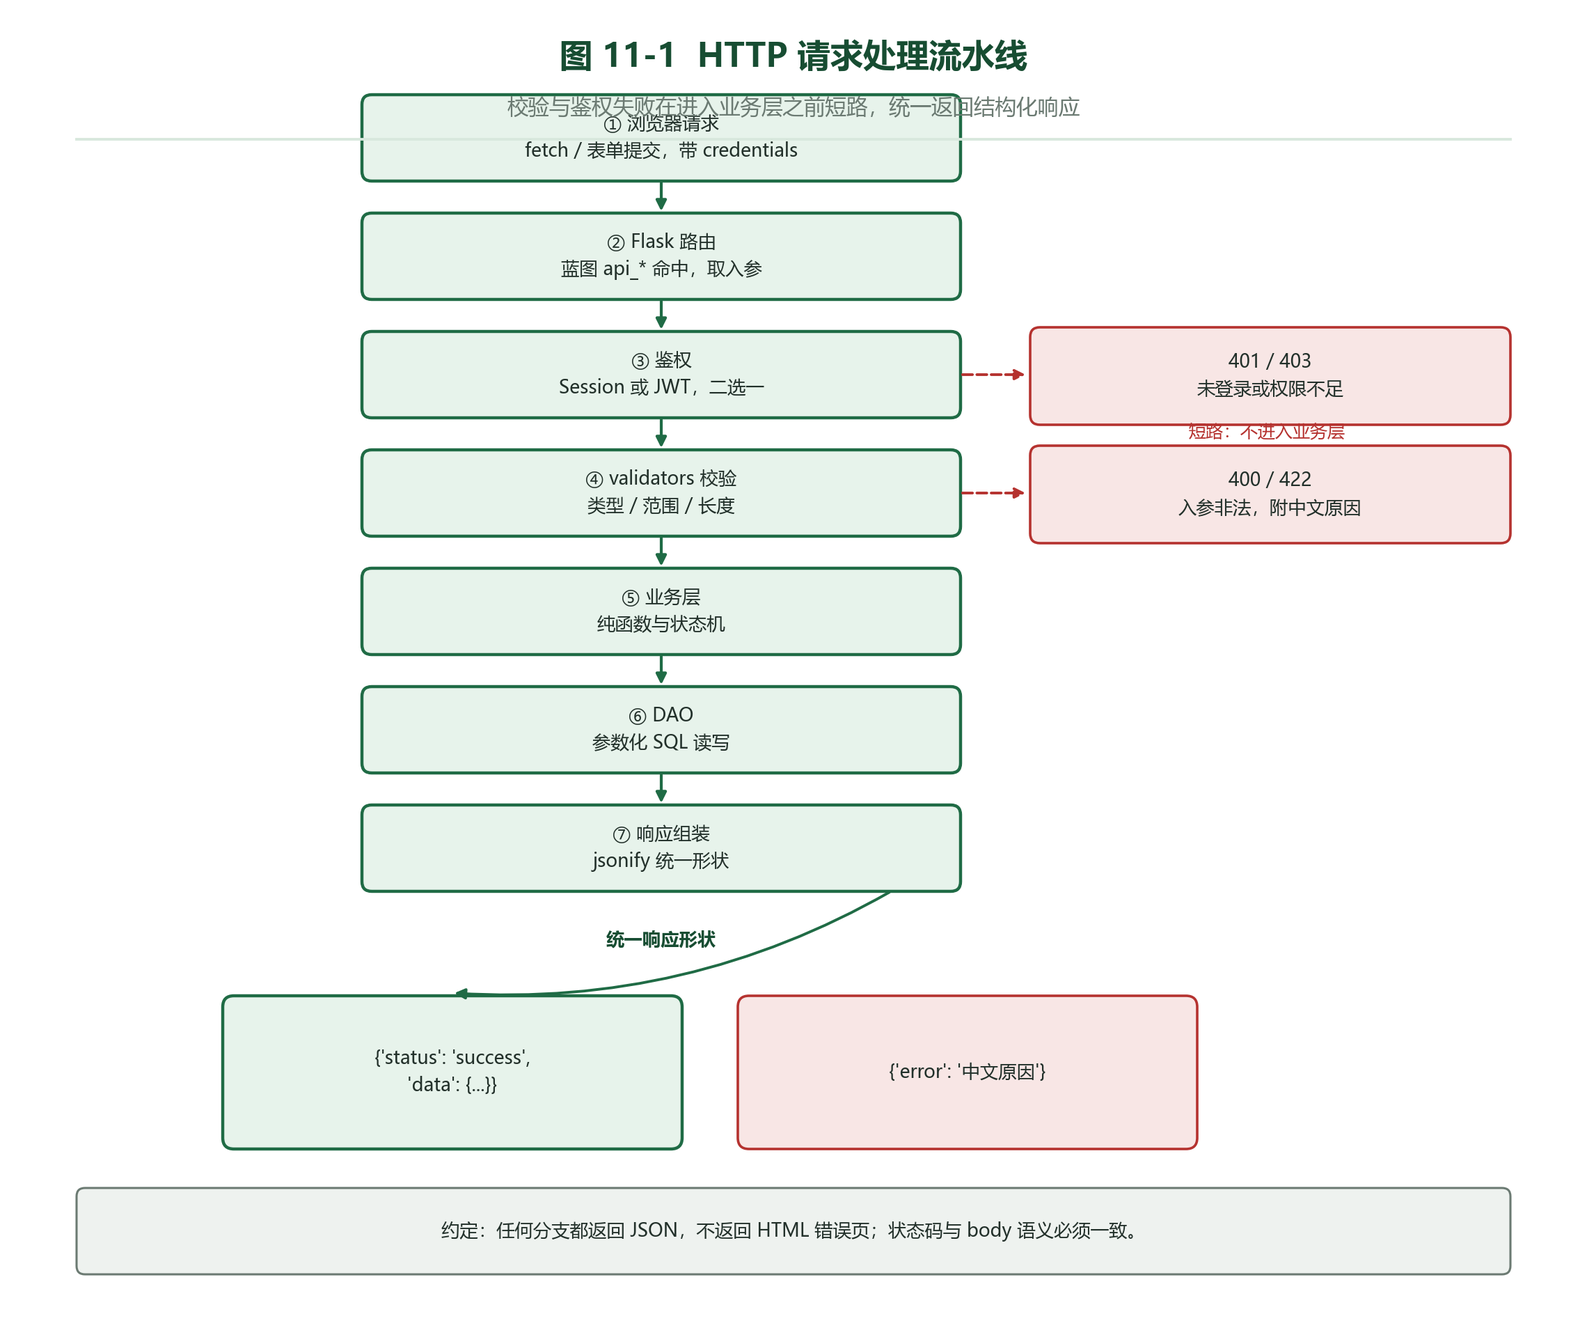
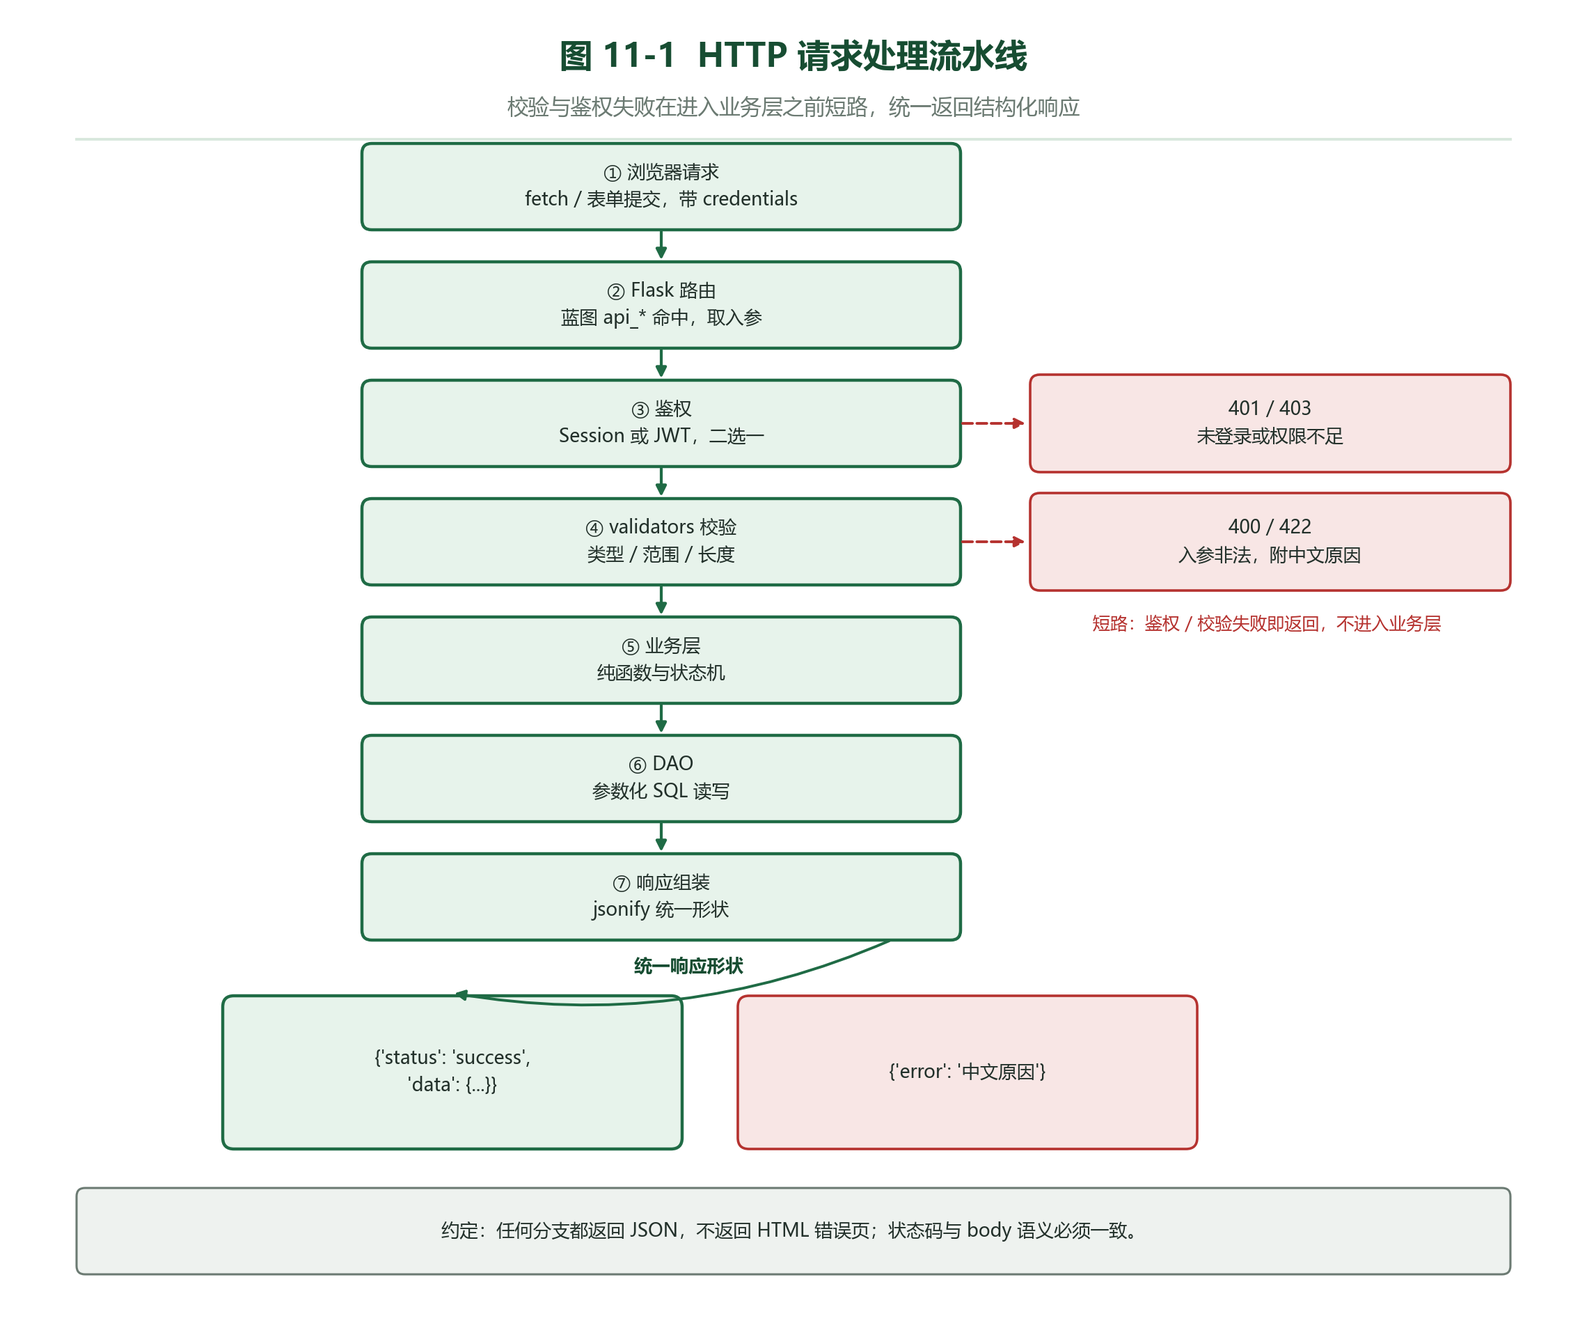
docs(docs): 重出 13 张示意图并修正文字重叠与越界

Changed region(s): [[0.218, 0.0625, 0.9654, 0.75], [0.5917, 0.6562, 0.6228, 0.6875]]

diff --git a/docs/_gen/make_figs.py b/docs/_gen/make_figs.py
@@ -456,7 +456,9 @@ def g_edgecloud():
         "断网自治：云端不可达 → 边端按 NVS 缓存的 L1 阈值继续执行，L2 红线强控始终在本地生效；"
         "联网后补传数据，并以云端最新策略覆盖本地缓存",
         fc=GRAY_L, ec=GRAY, fs=9.5, tc=INK, lw=1.2, r=0.08)
-    label(ax, 11.62, 2.35, "虚线红框\n= 设计中能力", fs=9, color=RED, ha="center")
+    ax.add_patch(Rectangle((0.80, 1.16), 0.30, 0.22, facecolor=RED_L, edgecolor=RED,
+                           lw=1.2, ls="--", zorder=6))
+    label(ax, 1.22, 1.27, "虚线红框 = 设计中能力（尚未落地）", fs=9, color=RED, ha="left")
     save(f, "g_edgecloud.png")
 
 
@@ -477,7 +479,7 @@ def g_deploy():
     label(ax, 6.05, 6.52, "HTTP", fs=9, color=GRAY)
 
     # SQLite
-    box(ax, 5.40, 2.60, 3.30, 0.95, "SQLite 单文件（WAL）\nqinghe.db · 12 张表", fc=GRAY_L,
+    box(ax, 5.40, 2.60, 3.02, 0.95, "SQLite 单文件（WAL）\nqinghe.db · 12 张表", fc=GRAY_L,
         ec=GRAY, fs=10)
     arrow(ax, (7.95, 5.62), (7.95, 3.55), color=GREEN, lw=1.8)
     label(ax, 8.28, 4.55, "读写\n事务", fs=9, color=GRAY)
@@ -488,9 +490,10 @@ def g_deploy():
     box(ax, 5.60, 1.10, 2.20, 0.95, "paho-mqtt 客户端\n每用户一条连接", fc=LIGHT, ec=GREEN, fs=10)
     arrow(ax, (2.70, 3.08), (3.05, 3.08), color=GRAY, lw=1.8, style="<|-|>", ms=11)
     arrow(ax, (5.25, 3.05), (5.60, 2.60), color=GRAY, lw=1.8, style="<|-|>", ms=11, rad=-0.12)
-    arrow(ax, (6.70, 2.05), (6.70, 5.62), color=MID, lw=1.8, style="-|>", ms=14)
-    label(ax, 6.32, 4.30, "遥测入队", fs=9, color=MID, rot=90)
-    label(ax, 4.10, 3.28, "MQTT / TLS", fs=9, color=GRAY)
+    line(ax, [(7.80, 1.80), (8.62, 1.80)], color=MID, lw=1.8, z=6)
+    line(ax, [(8.62, 1.80), (8.62, 5.32)], color=MID, lw=1.8, z=6)
+    arrow(ax, (8.62, 5.32), (8.16, 5.60), color=MID, lw=1.8, style="-|>", ms=13)
+    label(ax, 3.12, 3.72, "MQTT / TLS", fs=9, color=GRAY, ha="left")
 
     # 右侧外部服务
     box(ax, 8.90, 2.85, 3.10, 4.05, "", fc=PALE, ec=GREEN, lw=1.6, r=0.12)
@@ -845,9 +848,8 @@ def g_autocontrol():
 
     # 互斥闸
     box(ax, 0.90, 3.02, 10.80, 0.62,
-        "互斥：mode = auto 时前端 tick 不再控泵；mode = frontend 时服务端只读不下发",
+        "互斥（二选一）：mode = auto 时前端 tick 不再控泵；mode = frontend 时服务端只读不下发",
         fc=RED_L, ec=RED, fs=9.5, tc=INK, lw=1.3, r=0.07, ls="--")
-    label(ax, 11.85, 3.33, "二选一", fs=9.5, color=RED, weight="bold")
 
     label(ax, 0.55, 2.55, "② 前端 autoControl 回路（浏览器内定时器）", fs=10.5,
           color=DEEP, weight="bold", ha="left")
@@ -910,7 +912,7 @@ def g_hitl():
     # TTL 时间轴
     box(ax, 0.55, 0.75, 9.55, 1.05, "", fc=PALE, ec=SOFT, lw=1.2, r=0.08)
     label(ax, 0.80, 1.55, "预案 TTL 时间轴", fs=10, color=DEEP, weight="bold", ha="left")
-    line(ax, [(1.30, 1.15), (9.70, 1.15)], color=GRAY, lw=2.0)
+    line(ax, [(1.30, 1.15), (9.70, 1.15)], color=GRAY, lw=2.0, z=6)
     for x, txt in ((1.30, "0 s 生成"), (5.50, "300 s 提醒"), (9.70, "600 s 过期")):
         ax.add_patch(Circle((x, 1.15), 0.055, facecolor=GREEN, edgecolor=GREEN, zorder=6))
         label(ax, x, 0.92, txt, fs=9, color=GRAY)
@@ -1098,7 +1100,7 @@ def x_thread():
         ("主请求线程\nwaitress × 8", ORANGE_L, ORANGE,
          ["waitress worker", "Flask 路由 + 鉴权", "DAO 读写 SQLite"],
          "连接按线程持有；WAL 允许读并发"),
-        ("MQTT 回调线程\n每用户一条", GREEN, LIGHT,
+        ("MQTT 回调线程\n每用户一条", LIGHT, GREEN,
          ["on_message", "parse_mqtt_payload", "put_nowait / emit"],
          "回调绝不碰磁盘，< 5 ms 返回"),
         ("落库线程\nHistoryWriter", ORANGE_L, ORANGE,
@@ -1107,7 +1109,7 @@ def x_thread():
         ("日志线程\nlogbook", ORANGE_L, ORANGE,
          ["日志入队", "批量写 logs 表", "异常吞掉不抛"],
          "有界队列 1000，满则丢弃"),
-        ("巡检线程\nheartbeat", GREEN, LIGHT,
+        ("巡检线程\nheartbeat", LIGHT, GREEN,
          ["sleep 定时", "扫 last_seen", "置离线 + 告警"],
          "threading.RLock 保护共享态"),
     ]
@@ -1167,11 +1169,9 @@ def x_migration():
     arrow(ax, (5.25, 4.75), (5.25, 3.10), color=ORANGE, lw=1.8, ms=12)
     arrow(ax, (5.25, 2.55), (5.25, 2.25), color=GREEN, lw=1.6, ms=11)
 
-    # 逐列循环
-    ax.add_patch(Arc((5.25, 3.92), 1.30, 0.62, theta1=200, theta2=340, color=ORANGE,
-                     lw=1.4, zorder=6))
-    arrow(ax, (4.62, 3.72), (4.95, 3.62), color=ORANGE, lw=1.4, ms=10, style="-|>")
-    label(ax, 6.15, 3.92, "循环：逐列判存在 → 缺失才 ALTER", fs=9, color=ORANGE, ha="left")
+    # 逐列循环说明
+    label(ax, 5.55, 4.40, "循环：逐列 PRAGMA 判存在 → 缺失才 ALTER", fs=9, color=ORANGE,
+          ha="left")
 
     box(ax, 8.05, 4.55, 3.00, 1.60, "", fc=PALE, ec=ORANGE, lw=1.2, r=0.07, ls="--")
     label(ax, 8.20, 5.95, "幂等三原则", fs=10, color=ORANGE, weight="bold", ha="left")
@@ -1340,16 +1340,15 @@ def x_histwriter():
            ("落库线程", "取批 ≤ 200 条", 8.70, LIGHT, GREEN),
            ("SQLite", "批量 INSERT", 11.40, LIGHT, GREEN)]
     for name, desc, x, fc, ec in row:
-        box(ax, x, 5.10, 2.30, 0.95, "%s\n%s" % (name, desc), fc=fc, ec=ec, fs=10, r=0.08)
+        box(ax, x, 5.10, 2.25, 0.95, "%s\n%s" % (name, desc), fc=fc, ec=ec, fs=10, r=0.08)
     for i in range(4):
-        x = 0.60 + i * 2.70
-        arrow(ax, (x + 2.30, 5.575), (x + 2.70, 5.575), color=GREEN, lw=1.8, ms=12)
+        x = 0.55 + i * 2.62
+        arrow(ax, (x + 2.25, 5.575), (x + 2.62, 5.575), color=GREEN, lw=1.8, ms=12)
 
     # 队列内部示意
     for i in range(6):
-        ax.add_patch(Rectangle((6.05 + i * 0.36, 5.28), 0.30, 0.32, facecolor=WHITE,
+        ax.add_patch(Rectangle((5.93 + i * 0.35, 5.15), 0.28, 0.26, facecolor=WHITE,
                                edgecolor=ORANGE, lw=1.0, zorder=6))
-    label(ax, 7.15, 4.98, "环形缓冲：满则 popleft 丢最旧", fs=9, color=ORANGE)
 
     # 溢出路径
     box(ax, 5.60, 3.30, 3.10, 0.75, "队满 → 丢弃最旧一条\nput_nowait 永不阻塞", fc=RED_L,
@@ -1363,12 +1362,12 @@ def x_histwriter():
     arrow(ax, (9.85, 5.10), (9.85, 4.22), color=GRAY, lw=1.2, ms=10, ls=":")
 
     # 红线
-    box(ax, 0.60, 6.55, 12.10, 0.85,
+    box(ax, 0.55, 6.30, 12.55, 0.62,
         "红线：MQTT 回调线程内绝不允许出现 commit / 网络 IO / 大循环 —— 只允许一次 put_nowait，"
         "阻塞即丢数据、拖慢整条 MQTT 连接",
         fc=RED_L, ec=RED, fs=9.5, tc=INK, lw=1.4, r=0.07)
 
-    box(ax, 0.60, 1.35, 12.10, 1.35,
+    box(ax, 0.55, 1.35, 12.55, 1.35,
         "背压策略：队列满时牺牲最旧的一条而不是阻塞生产者，保证实时性优先；"
         "落库线程空闲时阻塞在队列 get(timeout=1) 上，既省 CPU 又能被优雅关闭。\n"
         "统计口径：丢弃条数单独计数并写入运行日志，便于评估落库吞吐是否够用。",
@@ -1455,20 +1454,19 @@ def x_alertdedup():
     ax.add_patch(Rectangle((x0, yA - 0.42), X(60) - x0, 0.84, facecolor=ORANGE_L,
                            edgecolor=ORANGE, lw=1.2, zorder=2, alpha=0.55))
     line(ax, [(x0, yA), (x1, yA)], color=GRAY, lw=2.2, z=4)
-    label(ax, (x0 + X(60)) / 2, yA + 0.52, "冷却窗口 60 s：同 key 一律丢弃", fs=9.5,
+    label(ax, (x0 + X(60)) / 2, yA + 0.26, "冷却窗口 60 s：同 key 一律丢弃", fs=9.5,
           color=ORANGE, weight="bold")
 
     ev = [(0, "首次告警 A", "推送 + 记录 t = 0", True),
           (20, "A 再次出现", "命中冷却 → 丢弃", False),
-          (59, "A 又出现", "仍丢弃", False),
           (60, "60 s 整", "允许再次推送", True)]
     for t, head, desc, up in ev:
         xv = X(t)
         ax.add_patch(Circle((xv, yA), 0.075, facecolor=GREEN if up else RED,
                             edgecolor=WHITE, lw=1.2, zorder=6))
         if up:
-            line(ax, [(xv, yA + 0.10), (xv, yA + 0.30)], color=GRAY, lw=1.0, z=5)
-            label(ax, xv, yA + 0.36, "%s\n%s" % (head, desc), fs=9, color=GREEN)
+            line(ax, [(xv, yA + 0.10), (xv, yA + 0.44)], color=GRAY, lw=1.0, z=5)
+            label(ax, xv, yA + 0.66, "%s\n%s" % (head, desc), fs=9, color=GREEN)
         else:
             line(ax, [(xv, yA - 0.10), (xv, yA - 0.34)], color=GRAY, lw=1.0, z=5)
             label(ax, xv, yA - 0.62, "%s\n%s" % (head, desc), fs=9, color=RED)
@@ -1507,7 +1505,7 @@ def x_realtime():
             ("hw_data", "下行", "type = device_status：在线状态", "room = str(uid)"),
             ("send_command", "上行", "{ device, action }：手动控泵", "由浏览器发往服务端")]
     for i, r in enumerate(data):
-        y = 6.62 - i * 0.35
+        y = 6.97 - i * 0.35
         for j, cell in enumerate(r):
             ax.text(cols[j] + 0.14, y, cell, ha="left", va="center", fontsize=9,
                     color=INK if j != 1 else (GREEN if cell == "下行" else ORANGE),
@@ -1532,9 +1530,8 @@ def x_realtime():
         label(ax, x + 1.72, 3.28, "只收本房间事件", fs=9, color=GRAY)
 
     arrow(ax, (4.12, 3.95), (4.52, 3.95), color=GREEN, lw=1.7, ms=12)
-    arrow(ax, (2.60, 3.55), (2.60, 3.10), color=GRAY, lw=1.2, ms=10, ls=":")
-    line(ax, [(2.60, 3.10), (8.35, 3.10)], color=GRAY, lw=1.2, ls=":")
-    arrow(ax, (8.35, 3.10), (8.35, 2.93), color=GRAY, lw=1.2, ms=10, ls=":")
+    label(ax, 2.35, 3.18, "同一函数按 uid 选房：uid=1 → room 1，uid=2 → room 2", fs=9,
+          color=GRAY)
 
     # 隔离边界
     line(ax, [(8.35, 2.95), (8.35, 5.80)], color=RED, lw=1.6, ls="--")
@@ -1558,7 +1555,7 @@ def x_ai_fallback():
     cols = [(0.55, 2.25), (2.95, 1.05), (4.15, 2.55), (6.90, 3.35), (10.40, 2.25)]
     heads = ["外部服务", "超时", "失败形态", "兜底返回", "调用方感受"]
     for (x, w), h in zip(cols, heads):
-        box(ax, x, 6.95, w, 0.50, h, fc=DEEP, ec=DEEP, fs=10, tc=WHITE, weight="bold",
+        box(ax, x, 7.30, w, 0.44, h, fc=DEEP, ec=DEEP, fs=10, tc=WHITE, weight="bold",
             r=0.05)
 
     rows = [
@@ -1572,14 +1569,14 @@ def x_ai_fallback():
          "地图仍可显示坐标", 2.35),
     ]
     for name, to, fail, fallback, feel, y in rows:
-        box(ax, cols[0][0], y, cols[0][1], 1.05, name, fc=LIGHT, ec=GREEN, fs=10, r=0.07)
+        box(ax, cols[0][0], y, cols[0][1], 0.98, name, fc=LIGHT, ec=GREEN, fs=10, r=0.07)
         box(ax, cols[1][0], y + 0.28, cols[1][1], 0.50, to, fc=ORANGE_L, ec=ORANGE, fs=10,
             weight="bold", r=0.06)
-        box(ax, cols[2][0], y, cols[2][1], 1.05, fail, fc=WHITE, ec=GRAY, fs=8.8, lw=1.2,
+        box(ax, cols[2][0], y, cols[2][1], 0.98, fail, fc=WHITE, ec=GRAY, fs=8.8, lw=1.2,
             r=0.07)
-        box(ax, cols[3][0], y, cols[3][1], 1.05, fallback, fc=ORANGE_L, ec=ORANGE, fs=8.8,
+        box(ax, cols[3][0], y, cols[3][1], 0.98, fallback, fc=ORANGE_L, ec=ORANGE, fs=8.8,
             lw=1.2, r=0.07)
-        box(ax, cols[4][0], y, cols[4][1], 1.05, feel, fc=PALE, ec=SOFT, fs=8.8, tc=INK,
+        box(ax, cols[4][0], y, cols[4][1], 0.98, feel, fc=PALE, ec=SOFT, fs=8.8, tc=INK,
             lw=1.1, r=0.07)
         arrow(ax, (cols[1][0] + cols[1][1], y + 0.52), (cols[2][0], y + 0.52), color=GRAY,
               lw=1.2, ms=9)
@@ -1611,7 +1608,7 @@ def x_http_pipeline():
              ("⑤ 业务层", "纯函数与状态机"),
              ("⑥ DAO", "参数化 SQL 读写"),
              ("⑦ 响应组装", "jsonify 统一形状")]
-    ys = [8.30, 7.45, 6.60, 5.75, 4.90, 4.05, 3.20]
+    ys = [7.95, 7.10, 6.25, 5.40, 4.55, 3.70, 2.85]
     for (name, desc), y in zip(steps, ys):
         box(ax, cx, y, cw, 0.62, "%s\n%s" % (name, desc), fc=LIGHT, ec=GREEN, fs=9.5,
             r=0.07)
@@ -1620,21 +1617,22 @@ def x_http_pipeline():
               lw=1.5, ms=11)
 
     # 短路分支
-    box(ax, 7.40, 6.55, 3.45, 0.70, "401 / 403\n未登录或权限不足", fc=RED_L, ec=RED,
+    box(ax, 7.40, 6.21, 3.45, 0.70, "401 / 403\n未登录或权限不足", fc=RED_L, ec=RED,
         fs=9.5, lw=1.3, r=0.07)
-    arrow(ax, (cx + cw, 6.91), (7.38, 6.91), color=RED, lw=1.4, ms=11, ls="--")
-    box(ax, 7.40, 5.70, 3.45, 0.70, "400 / 422\n入参非法，附中文原因", fc=RED_L, ec=RED,
+    arrow(ax, (cx + cw, 6.56), (7.38, 6.56), color=RED, lw=1.4, ms=11, ls="--")
+    box(ax, 7.40, 5.36, 3.45, 0.70, "400 / 422\n入参非法，附中文原因", fc=RED_L, ec=RED,
         fs=9.5, lw=1.3, r=0.07)
-    arrow(ax, (cx + cw, 6.06), (7.38, 6.06), color=RED, lw=1.4, ms=11, ls="--")
-    label(ax, 9.10, 6.50, "短路：不进入业务层", fs=9, color=RED)
+    arrow(ax, (cx + cw, 5.71), (7.38, 5.71), color=RED, lw=1.4, ms=11, ls="--")
+    label(ax, 9.10, 5.12, "短路：鉴权 / 校验失败即返回，不进入业务层", fs=9, color=RED)
 
     # 统一响应
     box(ax, 1.60, 1.35, 3.30, 1.10, "{'status': 'success',\n'data': {...}}", fc=LIGHT,
         ec=GREEN, fs=9.5, r=0.08)
     box(ax, 5.30, 1.35, 3.30, 1.10, "{'error': '中文原因'}", fc=RED_L, ec=RED, fs=9.5,
         lw=1.3, r=0.08)
-    arrow(ax, (6.40, 3.20), (3.25, 2.47), color=GREEN, lw=1.4, ms=11, rad=-0.15)
-    label(ax, 4.75, 2.85, "统一响应形状", fs=9.5, color=DEEP, weight="bold")
+    arrow(ax, (6.40, 2.85), (3.25, 2.47), color=GREEN, lw=1.4, ms=11, rad=-0.15)
+    label(ax, 4.95, 2.66, "统一响应形状", fs=9.5, color=DEEP, weight="bold",
+          bbox=dict(boxstyle="round,pad=0.2", fc=WHITE, ec="none"))
 
     box(ax, 0.55, 0.45, 10.30, 0.62,
         "约定：任何分支都返回 JSON，不返回 HTML 错误页；状态码与 body 语义必须一致。",
@@ -1690,53 +1688,68 @@ def x_plan_ttl():
 
 @fig("x_tick.png", "图 13-1 前端统一 tick 调度与批量 DOM 更新")
 def x_tick():
-    W, H = 13.4, 9.0
+    W, H = 13.4, 10.2
     f, ax = canvas(W, H)
     title(ax, W, H, "图 13-1  前端统一 tick 调度与批量 DOM 更新",
           "一个 500 ms 主时钟驱动全部任务，所有 DOM 写入合并到一次 flushDom")
 
-    box(ax, 0.55, 6.95, 2.55, 0.85, "setInterval\n每 500 ms 一次", fc=ORANGE_L, ec=ORANGE,
+    box(ax, 0.55, 8.30, 2.55, 0.80, "setInterval\n每 500 ms 一次", fc=ORANGE_L, ec=ORANGE,
         fs=10, r=0.08)
-    arrow(ax, (3.10, 7.375), (3.50, 7.375), color=GREEN, lw=1.7, ms=12)
-    box(ax, 3.52, 6.95, 3.05, 0.85, "累加器\nacc[name] += dt", fc=LIGHT, ec=GREEN, fs=10,
+    arrow(ax, (3.10, 8.70), (3.50, 8.70), color=GREEN, lw=1.7, ms=12)
+    box(ax, 3.52, 8.30, 3.05, 0.80, "累加器\nacc[name] += dt", fc=LIGHT, ec=GREEN, fs=10,
         r=0.08)
 
+    label(ax, 6.95, 8.22, "任务表：到期才执行，单任务抛错不影响其它任务", fs=9.5,
+          color=DEEP, weight="bold", ha="left")
+
+    box(ax, 0.55, 4.10, 5.70, 3.20,
+        "function tick(now) {\n"
+        "  const dt = now - last;\n"
+        "  last = now;\n"
+        "  for (const [name, period] of TASKS) {\n"
+        "    acc[name] += dt;\n"
+        "    if (acc[name] < period) continue;\n"
+        "    acc[name] = 0;\n"
+        "    try { run(name); }\n"
+        "    catch (e) { console.warn(name, e); }\n"
+        "  }\n"
+        "  flushDom();          // 合并写入\n"
+        "}",
+        fc=PALE, ec=SOFT, fs=9, tc=INK, lw=1.2, r=0.07, ha="left", ls_spacing=1.6)
     tasks = [("dom", 500, "重绘读数与状态色"), ("clock", 1000, "时钟与倒计时"),
              ("chart", 2000, "三条趋势曲线"), ("heartbeat", 5000, "设备在线探测"),
              ("persist", 30000, "批量落库 / 自动保存")]
     for i, (name, ms, desc) in enumerate(tasks):
-        y = 5.60 - i * 1.02
-        box(ax, 6.95, y, 2.35, 0.80, "%s\n每 %d ms" % (name, ms), fc=WHITE, ec=GREEN,
+        y = 7.30 - i * 0.90
+        box(ax, 6.95, y, 2.35, 0.78, "%s\n每 %d ms" % (name, ms), fc=WHITE, ec=GREEN,
             fs=9.5, lw=1.4, r=0.07)
-        label(ax, 9.55, y + 0.40, desc, fs=9, color=GRAY, ha="left")
-        arrow(ax, (5.20, 5.98), (6.93, y + 0.40), color=GREEN, lw=1.3, ms=10, rad=0.05)
-        box(ax, 9.50, y, 0.85, 0.80, "try\ncatch", fc=RED_L, ec=RED, fs=8.5, lw=1.1,
-            r=0.06)
-        arrow(ax, (9.30, y + 0.40), (9.48, y + 0.40), color=GRAY, lw=1.1, ms=9)
+        label(ax, 9.55, y + 0.39, desc, fs=9, color=GRAY, ha="left")
+        arrow(ax, (5.35, 8.30), (6.93, y + 0.39), color=GREEN, lw=1.3, ms=10, rad=0.05)
 
-    label(ax, 6.95, 6.55, "任务表：到期才执行，单任务抛错不影响其它任务", fs=9,
-          color=DEEP, weight="bold", ha="left")
+    box(ax, 11.30, 3.60, 1.95, 4.48,
+        "每个任务\n独立 try / catch\n\n抛错只记 console\n不中断 tick\n主循环",
+        fc=RED_L, ec=RED, fs=9.5, lw=1.3, r=0.08, ls="--")
 
     # 下半：批量 DOM
-    label(ax, 0.55, 3.35, "批量 DOM 更新", fs=11, color=DEEP, weight="bold", ha="left")
-    box(ax, 0.55, 1.75, 3.60, 1.30,
-        "pending = {\n  fields, styles,\n  pumps, flags, sliders\n}", fc=ORANGE_L, ec=ORANGE,
-        fs=9, r=0.07)
-    arrow(ax, (4.15, 2.40), (4.65, 2.40), color=GREEN, lw=1.6, ms=12)
-    box(ax, 4.67, 1.75, 2.55, 1.30, "flushDom()\n一次性写 DOM", fc=LIGHT, ec=GREEN,
+    label(ax, 0.55, 2.98, "批量 DOM 更新", fs=11, color=DEEP, weight="bold", ha="left")
+    box(ax, 0.55, 1.45, 3.60, 1.15,
+        "pending = {\n  fields, styles,\n  pumps, flags, sliders\n}", fc=ORANGE_L,
+        ec=ORANGE, fs=9, r=0.07)
+    arrow(ax, (4.15, 2.02), (4.65, 2.02), color=GREEN, lw=1.6, ms=12)
+    box(ax, 4.67, 1.45, 2.55, 1.15, "flushDom()\n一次性写 DOM", fc=LIGHT, ec=GREEN,
         fs=9.5, r=0.07)
-    arrow(ax, (7.22, 2.40), (7.72, 2.40), color=GREEN, lw=1.6, ms=12)
+    arrow(ax, (7.22, 2.02), (7.72, 2.02), color=GREEN, lw=1.6, ms=12)
 
-    box(ax, 7.74, 2.10, 2.55, 0.60, "el.__qhText\n与上次值比较", fc=WHITE, ec=GRAY, fs=9,
+    box(ax, 7.74, 1.78, 2.55, 0.52, "el.__qhText\n与上次值比较", fc=WHITE, ec=GRAY, fs=9,
         lw=1.2, r=0.06)
-    box(ax, 10.50, 2.60, 2.40, 0.55, "相同 → 跳过", fc=GRAY_L, ec=GRAY, fs=9, lw=1.1,
+    box(ax, 10.55, 2.25, 2.35, 0.50, "相同 → 跳过", fc=GRAY_L, ec=GRAY, fs=9, lw=1.1,
         r=0.06)
-    box(ax, 10.50, 1.75, 2.40, 0.55, "不同 → 写入并缓存", fc=LIGHT, ec=GREEN, fs=9,
+    box(ax, 10.55, 1.45, 2.35, 0.50, "不同 → 写入并缓存", fc=LIGHT, ec=GREEN, fs=9,
         lw=1.2, r=0.06)
-    arrow(ax, (10.29, 2.42), (10.48, 2.80), color=GRAY, lw=1.2, ms=9, rad=-0.12)
-    arrow(ax, (10.29, 2.38), (10.48, 2.05), color=GREEN, lw=1.2, ms=9, rad=0.12)
+    arrow(ax, (10.31, 2.08), (10.53, 2.50), color=GRAY, lw=1.2, ms=9, rad=-0.12)
+    arrow(ax, (10.31, 1.98), (10.53, 1.70), color=GREEN, lw=1.2, ms=9, rad=0.12)
 
-    box(ax, 0.55, 0.55, 12.35, 0.85,
+    box(ax, 0.55, 0.45, 12.35, 0.75,
         "为什么要合并：500 ms 内可能产生几十次读数更新，逐个写 DOM 会触发多次重排；"
         "先在对象里累积，最后一次写入，长列表只更新可见行。",
         fc=GRAY_L, ec=GRAY, fs=9.5, tc=INK, lw=1.1, r=0.07)
@@ -1874,3 +1887,46 @@ def x_test_layers():
 
 
 # @@APPEND@@
+
+
+# ================================================================ 自检与入口
+def verify(names=None):
+    """逐个打开 PNG，检查宽度、非纯白（标准差）与文件体积，打印一张表。"""
+    from PIL import Image
+
+    targets = [n for n, _c, _f in ORDER if names is None or n in names]
+    rows, all_ok = [], True
+    for name in targets:
+        path = os.path.join(OUT_DIR, name)
+        if not os.path.exists(path):
+            print("  [缺失] %s" % name)
+            all_ok = False
+            continue
+        with Image.open(path) as im:
+            w, h = im.size
+            gray = np.asarray(im.convert("L"), dtype=np.float32)
+        sd = float(gray.std())
+        kb = os.path.getsize(path) / 1024.0
+        ok = (w >= 1600) and (sd > 5.0) and (kb > 30.0)
+        all_ok = all_ok and ok
+        rows.append((name, w, h, kb, sd, ok))
+
+    print("\n%-22s %-13s %9s %8s  %s" % ("文件名", "宽×高", "KB", "标准差", "结果"))
+    print("-" * 68)
+    for name, w, h, kb, sd, ok in rows:
+        print("%-22s %-13s %9.1f %8.2f  %s"
+              % (name, "%d×%d" % (w, h), kb, sd, "通过" if ok else "未通过"))
+    print("-" * 68)
+    print("合计 %d 张，%s" % (len(rows), "全部通过" if all_ok else "存在未通过项"))
+    return all_ok
+
+
+if __name__ == "__main__":
+    keys = [a.lower() for a in sys.argv[1:]]
+    picked = [(n, c, fn) for n, c, fn in ORDER
+              if not keys or any(k in n.lower() or k in c.lower() for k in keys)]
+    print("开始生成 %d / %d 张图（dpi=%d）" % (len(picked), len(ORDER), DPI))
+    for _name, _caption, _fn in picked:
+        print("[%s] %s" % (_name, _caption))
+        _fn()
+    verify({n for n, _c, _f in picked})
